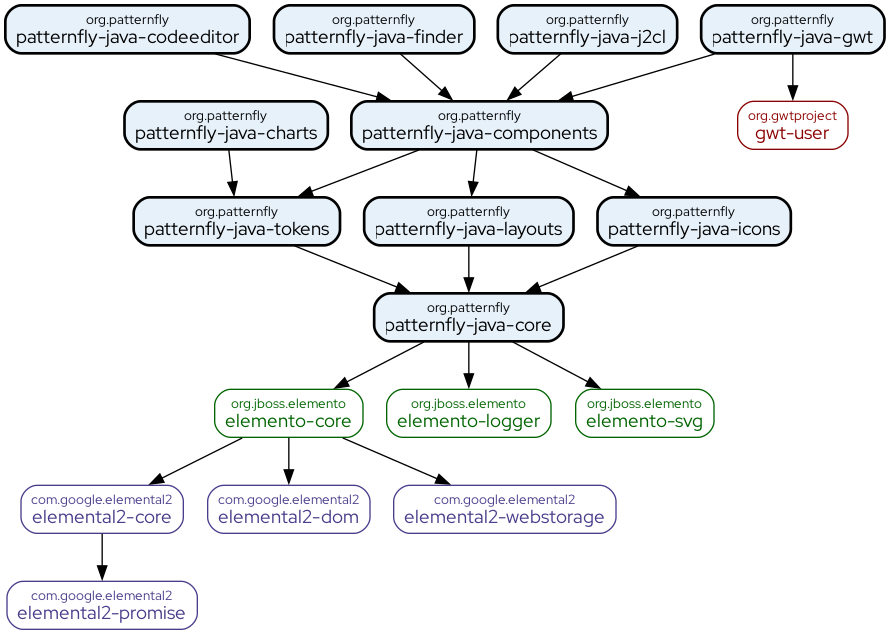
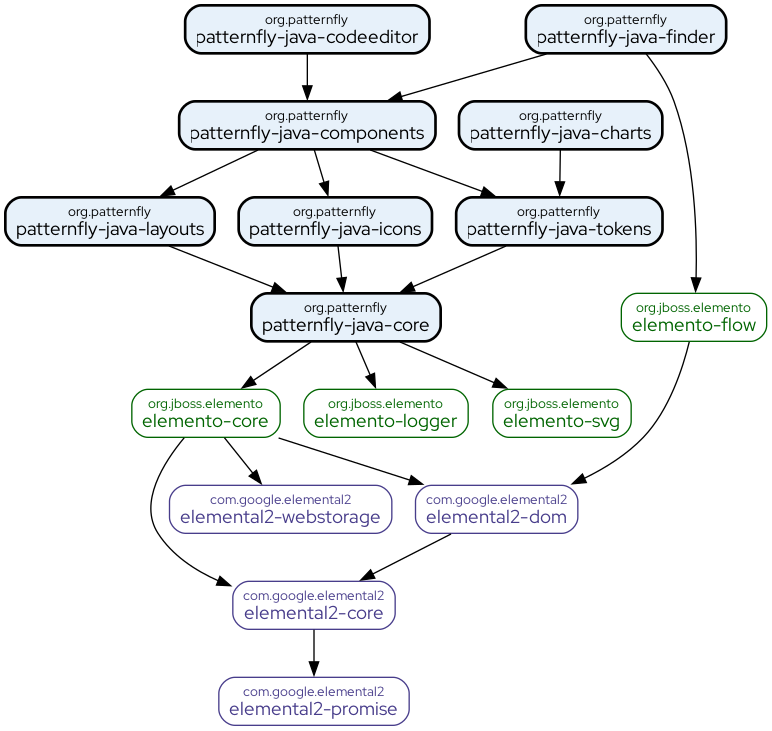
docs: update documentation after removing gwt/j2cl modules
Remove references to patternfly-java-gwt and patternfly-java-j2cl
from showcase markdown, apidoc overview, and module tables.
Update the dependency graph.

Changed region(s): [[0.0, 0.0, 1.0, 1.0], [0.2798, 0.8976, 0.5285, 1.0], [0.8394, 0.5386, 0.8705, 0.5685]]

diff --git a/apidoc/src/main/javadoc/overview.html b/apidoc/src/main/javadoc/overview.html
@@ -30,7 +30,7 @@ without any JavaScript dependencies (except for charts).
 <p>PatternFly Java's Its goal is to provide an easy-to-use, elegant, and efficient API to build complex web applications with
     PatternFly in Java. PatternFly Java integrates with and builds
     upon Elemento's <a href="https://hal-console.gitbook.io/elemento/builder-api" target="_blank">builder API</a>. It
-    works with both GWT and J2CL.
+    works with J2CL.
 </p>
 
 <h2>API Design</h2>
@@ -180,16 +180,8 @@ Button button2 = button("PatternFly", "https://www.patternfly.org");</code></pre
         <td>PatternFly Java Finder extension</td>
     </tr>
     <tr>
-        <td>patternfly-java-gwt</td>
-        <td>PatternFly Java for GWT</td>
-    </tr>
-    <tr>
         <td>patternfly-java-icons</td>
         <td>PatternFly Java icons</td>
-    </tr>
-    <tr>
-        <td>patternfly-java-j2cl</td>
-        <td>PatternFly Java for J2CL</td>
     </tr>
     <tr>
         <td>patternfly-java-layouts</td>

diff --git a/showcase/markdown/get-started.md b/showcase/markdown/get-started.md
@@ -25,36 +25,22 @@ Import the BOM in your `pom.xml`. Replace `${patternfly-java.version}` with the 
 </dependencyManagement>
 ```
 
-Then add a dependency to either
+Then add a dependency on the components you need:
 
 ```xml
 <dependency>
     <groupId>org.patternfly</groupId>
-    <artifactId>patternfly-java-gwt</artifactId>
-    <type>gwt-lib</type>
+    <artifactId>patternfly-java-components</artifactId>
 </dependency>
-```
-
-or
-
-```xml
 <dependency>
     <groupId>org.patternfly</groupId>
-    <artifactId>patternfly-java-j2cl</artifactId>
+    <artifactId>patternfly-java-layouts</artifactId>
 </dependency>
-```
-
-depending on your stack. If you're using GWT, inherit from `org.patternfly.PatternFly`:
-
-```xml
-<module>
-    <inherits name="org.patternfly.PatternFly"/>
-</module>
 ```
 
 ## JavaScript Dependencies
 
-PatternFly Java has **no JavaScript** dependencies. Everything necessary is included in the code base for both GWT and J2CL. The only exception is the charts package, which wraps PatternFly React Chart components as web components so they can be used from Java.
+PatternFly Java has **no JavaScript** dependencies. The only exception is the charts package, which wraps PatternFly React Chart components as web components so they can be used from Java.
 
 ```
 npm install @patternfly-java/charts
@@ -108,9 +94,7 @@ PatternFly Java consists of these Maven modules (a-z):
 | patternfly-java-components | Components            |
 | patternfly-java-core       | Core classes          |
 | patternfly-java-finder     | Finder extension      |
-| patternfly-java-gwt        | GWT support           |
 | patternfly-java-icons      | Icons                 |
-| patternfly-java-j2cl       | J2CL support          |
 | patternfly-java-layouts    | Layouts               |
 | patternfly-java-tokens     | Tokens                |
 

diff --git a/showcase/markdown/home.md b/showcase/markdown/home.md
@@ -7,7 +7,7 @@ title: PatternFly Java
 
 Build enterprise web applications in pure Java with [PatternFly](https://www.patternfly.org/) components — no JavaScript required.
 
-PatternFly Java is a 💯 Java implementation of PatternFly that integrates with and builds upon Elemento's [builder API](https://hal-console.gitbook.io/elemento/builder-api). It works with both GWT and J2CL, giving you a type-safe, fluent API to create complex web applications entirely in Java.
+PatternFly Java is a 💯 Java implementation of PatternFly that integrates with and builds upon Elemento's [builder API](https://hal-console.gitbook.io/elemento/builder-api). It works with J2CL, giving you a type-safe, fluent API to create complex web applications entirely in Java.
 
 ## A Taste of the API
 
@@ -38,7 +38,7 @@ body().add(page()
                                         .add(" is a 💯 Java implementation of ")
                                         .add(a("https://www.patternfly.org/", "_blank")
                                                 .text("PatternFly"))
-                                        .add(" without any JavaScript dependencies based on GWT/J2CL and ")
+                                        .add(" without any JavaScript dependencies based on J2CL and ")
                                         .add(a("https://github.com/hal/elemento", "_blank")
                                                 .text("Elemento"))
                                         .add("."))))));

diff --git a/showcase/markdown/developer/building.md b/showcase/markdown/developer/building.md
@@ -49,8 +49,6 @@ The project is organized into these modules:
 | **charts** | Chart web components wrapper — standalone NPM package (`@patternfly-java/charts`), built and published independently with pnpm, not part of the Maven build lifecycle |
 | **extensions/codeeditor** | Code editor extension |
 | **extensions/finder** | Finder extension |
-| **gwt** | GWT compilation target support |
-| **j2cl** | J2CL compilation target support |
 | **showcase** | Interactive demo website (activated via `-P showcase`) |
 | **snippet-tests** | Build-time validation of inline JavaDoc code snippets (activated via `-P check`, not deployed) |
 | **apidoc** | API documentation aggregation (activated via `-P apidoc`) |

diff --git a/showcase/markdown/get-involved.md b/showcase/markdown/get-involved.md
@@ -14,7 +14,7 @@ Found something that doesn't work as expected? Open an issue on [GitHub Issues](
 - A clear description of the problem
 - Steps to reproduce the issue
 - The expected vs. actual behavior
-- Your environment (Java version, GWT or J2CL, browser)
+- Your environment (Java version, browser)
 
 ## Request Features
 
